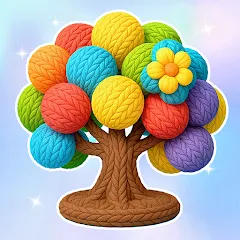
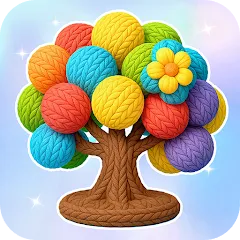
final
final

diff --git a/index.html b/index.html
@@ -77,9 +77,70 @@
 
             <!-- Project 1 -->
 
+            <div class="project" ontouchstart="changeImage('project7', 'Gifs/JP-hover.gif')"
+                ontouchend="returnImage('project7', 'Images/JP.png')">
+                <img src="Images/drink.png" id="project7"
+                    style="width: 250px; height: 250px; object-fit: cover; margin: 20px auto;"
+                    onclick="openModal('project7')">
+                <div class="project-content">
+                    <p>
+                        <span class="tag">Cocos Cretor 3D</span>
+                        <span class="tag">TypeScript</span>
+                        <span class="tag">3D</span>
+                    </p>
+                    <p style="font-size:18px">
+                        <strong>Drink Sort</strong>
+                        <!-- <div class="contributions">
+                        <strong>CONTRIBUTIONS:</strong>
+                        <br></br>
+                        <li><strong>Game Flow Programming</strong></li>
+                        <li><strong>Artistic Implementation</strong></li>fproject5
+                        <li><strong>Game Design</strong></li>
+                        <li><strong>VFX</strong></li>
 
+                    </div> -->
+                </div>
+            </div>
+            <div class="project" ontouchstart="changeImage('project15', 'Gifs/SA-hover.gif')"
+                ontouchend="returnImage('project15', 'Images/SA.png')">
+                <img src="Images/knit.png" id="project15"
+                    style="width: 250px; height: 250px; object-fit: cover; margin: 20px auto;"
+                    onclick="openModal('project15')">
+                <div class="project-content">
+                    <p>
+                        <span class="tag">Cocos Creator 3D</span>
+                        <span class="tag">TypeScript</span>
 
-
+                        <span class="tag">3D</span>
+                    </p>
+                    <p style="font-size:18px">
+                        <strong>Knit Away</strong>
+                    </p>
+                    <!-- <div class="contributions">
+                        <strong>CONTRIBUTIONS:</strong>
+                        <br></br>
+                        <li><strong>Game Flow Programming</strong></li>
+                        <li><strong>Artistic Implementation</strong></li>
+                        <li><strong>VFX</strong></li>
+                    </div> -->
+                </div>
+            </div>
+            <div class="project" ontouchstart="changeImage('project13', 'Gifs/CK-hover.gif')"
+                ontouchend="returnImage('project13', 'Images/cake.png')">
+                <img src="Images/car.png" id="project1"
+                    style="width: 250px; height: 250px; object-fit: cover; margin: 20px auto;"
+                    onclick="openModal('project13')">
+                <div class="project-content">
+                    <p>
+                        <span class="tag">Cocos Creator 3D</span>
+                        <span class="tag">TypeScript</span>
+                        <span class="tag">3D</span>
+                    </p>
+                    <p style="font-size:18px" onclick="openModal('project13')">
+                        <strong>Car Blast 3D</strong>
+                    </p>
+                </div>
+            </div>
             <div class="project" ontouchstart="changeImage('project1', 'Gifs/CK-hover.gif')"
                 ontouchend="returnImage('project1', 'Images/cake.png')">
                 <img src="Images/cake.png" id="project1"
@@ -153,30 +214,30 @@
                     </div> -->
                 </div>
             </div>
-            <div class="project" ontouchstart="changeImage('project7', 'Gifs/JP-hover.gif')"
-                ontouchend="returnImage('project7', 'Images/JP.png')">
-                <img src="Images/drink.png" id="project7"
+            <div class="project" ontouchstart="changeImage('project9', 'Gifs/CP-hover.gif')"
+                ontouchend="returnImage('project9', 'Images/CP.png')">
+                <img src="Images/ScrewUnlock.jpg" id="project9"
                     style="width: 250px; height: 250px; object-fit: cover; margin: 20px auto;"
-                    onclick="openModal('project7')">
+                    onclick="openModal('project9')">
                 <div class="project-content">
                     <p>
-                        <span class="tag">Cocos Cretor 3D</span>
+                        <span class="tag">Cocos Creator 3D</span>
                         <span class="tag">TypeScript</span>
                         <span class="tag">3D</span>
                     </p>
                     <p style="font-size:18px">
-                        <strong>Drink Sort</strong>
-                        <!-- <div class="contributions">
+                        <strong>Screw Unlock</strong>
+                    </p>
+                    <!-- <div class="contributions">
                         <strong>CONTRIBUTIONS:</strong>
                         <br></br>
                         <li><strong>Game Flow Programming</strong></li>
-                        <li><strong>Artistic Implementation</strong></li>fproject5
-                        <li><strong>Game Design</strong></li>
+                        <li><strong>Artistic Implementation</strong></li>
                         <li><strong>VFX</strong></li>
-
                     </div> -->
                 </div>
             </div>
+
             <div class="project" ontouchstart="changeImage('project12', 'Gifs/MC-hover.gif')"
                 ontouchend="returnImage('project12', 'Images/MC.jpg')">
                 <img src="Images/satis.jpg" id="project12"
@@ -357,29 +418,7 @@
             </div>
 
             <!-- Project 8 -->
-            <div class="project" ontouchstart="changeImage('project9', 'Gifs/CP-hover.gif')"
-                ontouchend="returnImage('project9', 'Images/CP.png')">
-                <img src="Images/ScrewUnlock.jpg" id="project9"
-                    style="width: 250px; height: 250px; object-fit: cover; margin: 20px auto;"
-                    onclick="openModal('project9')">
-                <div class="project-content">
-                    <p>
-                        <span class="tag">Cocos Creator 3D</span>
-                        <span class="tag">TypeScript</span>
-                        <span class="tag">3D</span>
-                    </p>
-                    <p style="font-size:18px">
-                        <strong>Screw Unlock</strong>
-                    </p>
-                    <!-- <div class="contributions">
-                        <strong>CONTRIBUTIONS:</strong>
-                        <br></br>
-                        <li><strong>Game Flow Programming</strong></li>
-                        <li><strong>Artistic Implementation</strong></li>
-                        <li><strong>VFX</strong></li>
-                    </div> -->
-                </div>
-            </div>
+
 
             <div class="project" ontouchstart="changeImage('project10', 'Gifs/SA-hover.gif')"
                 ontouchend="returnImage('project10', 'Images/SA.png')">
@@ -405,7 +444,30 @@
                     </div> -->
                 </div>
             </div>
+            <div class="project" ontouchstart="changeImage('project14', 'Gifs/SA-hover.gif')"
+                ontouchend="returnImage('project14', 'Images/SA.png')">
+                <img src="Images/popcorn.jpg" id="project14"
+                    style="width: 250px; height: 250px; object-fit: cover; margin: 20px auto;"
+                    onclick="openModal('project14')">
+                <div class="project-content">
+                    <p>
+                        <span class="tag">Cocos Creator 3D</span>
+                        <span class="tag">TypeScript</span>
 
+                        <span class="tag">3D</span>
+                    </p>
+                    <p style="font-size:18px">
+                        <strong>Popcorn</strong>
+                    </p>
+                    <!-- <div class="contributions">
+                        <strong>CONTRIBUTIONS:</strong>
+                        <br></br>
+                        <li><strong>Game Flow Programming</strong></li>
+                        <li><strong>Artistic Implementation</strong></li>
+                        <li><strong>VFX</strong></li>
+                    </div> -->
+                </div>
+            </div>
 
 
 

diff --git a/Script/modalproject.js b/Script/modalproject.js
@@ -396,7 +396,52 @@ Welcome! This is my demo reel showcasing a selection of my game development proj
                             <div class="project-video-BG">
                             <div class="project-video"><span class="iframe-close" onclick="closeModal()">&times;</span>
                             
-                                <iframe id="youtubeVideo" width="1080" height="1920" src="https://huyenbk97.github.io/DemoPLY/CakeSort_V20_Huyen_270126_applovin.html" frameborder="0" sandbox="allow-scripts allow-same-origin" allowfullscreen></iframe>
+                                <iframe id="youtubeVideo" width="1080" height="1920" src="https://huyenbk97.github.io/DemoPLY/satis.html" frameborder="0" sandbox="allow-scripts allow-same-origin" allowfullscreen></iframe>
+                            </div>
+                            </div>
+
+                    
+`                   ;
+            break;
+        case 'project13':
+            videoId = 'piHodHzVQ28?si=nf1lvqtgdO9DZ8Jm';
+            projectContent = `
+                           
+
+                            <div class="project-video-BG">
+                            <div class="project-video"><span class="iframe-close" onclick="closeModal()">&times;</span>
+                            
+                                <iframe id="youtubeVideo" width="1080" height="1920" src="https://huyenbk97.github.io/DemoPLY/CarBlast_Huyen_V22_160426_applovin.html" frameborder="0" sandbox="allow-scripts allow-same-origin" allowfullscreen></iframe>
+                            </div>
+                            </div>
+
+                    
+`                   ;
+            break;
+        case 'project14':
+            videoId = 'piHodHzVQ28?si=nf1lvqtgdO9DZ8Jm';
+            projectContent = `
+                           
+
+                            <div class="project-video-BG">
+                            <div class="project-video"><span class="iframe-close" onclick="closeModal()">&times;</span>
+                            
+                                <iframe id="youtubeVideo" width="1080" height="1920" src="https://huyenbk97.github.io/DemoPLY/CupHero_Huyen_V6_030325_Unity.html" frameborder="0" sandbox="allow-scripts allow-same-origin" allowfullscreen></iframe>
+                            </div>
+                            </div>
+
+                    
+`                   ;
+            break;
+        case 'project15':
+            videoId = 'piHodHzVQ28?si=nf1lvqtgdO9DZ8Jm';
+            projectContent = `
+                           
+
+                            <div class="project-video-BG">
+                            <div class="project-video"><span class="iframe-close" onclick="closeModal()">&times;</span>
+                            
+                                <iframe id="youtubeVideo" width="1080" height="1920" src="https://huyenbk97.github.io/DemoPLY/PA49_Corn_Trong_251225_applovin.html" frameborder="0" sandbox="allow-scripts allow-same-origin" allowfullscreen></iframe>
                             </div>
                             </div>
 